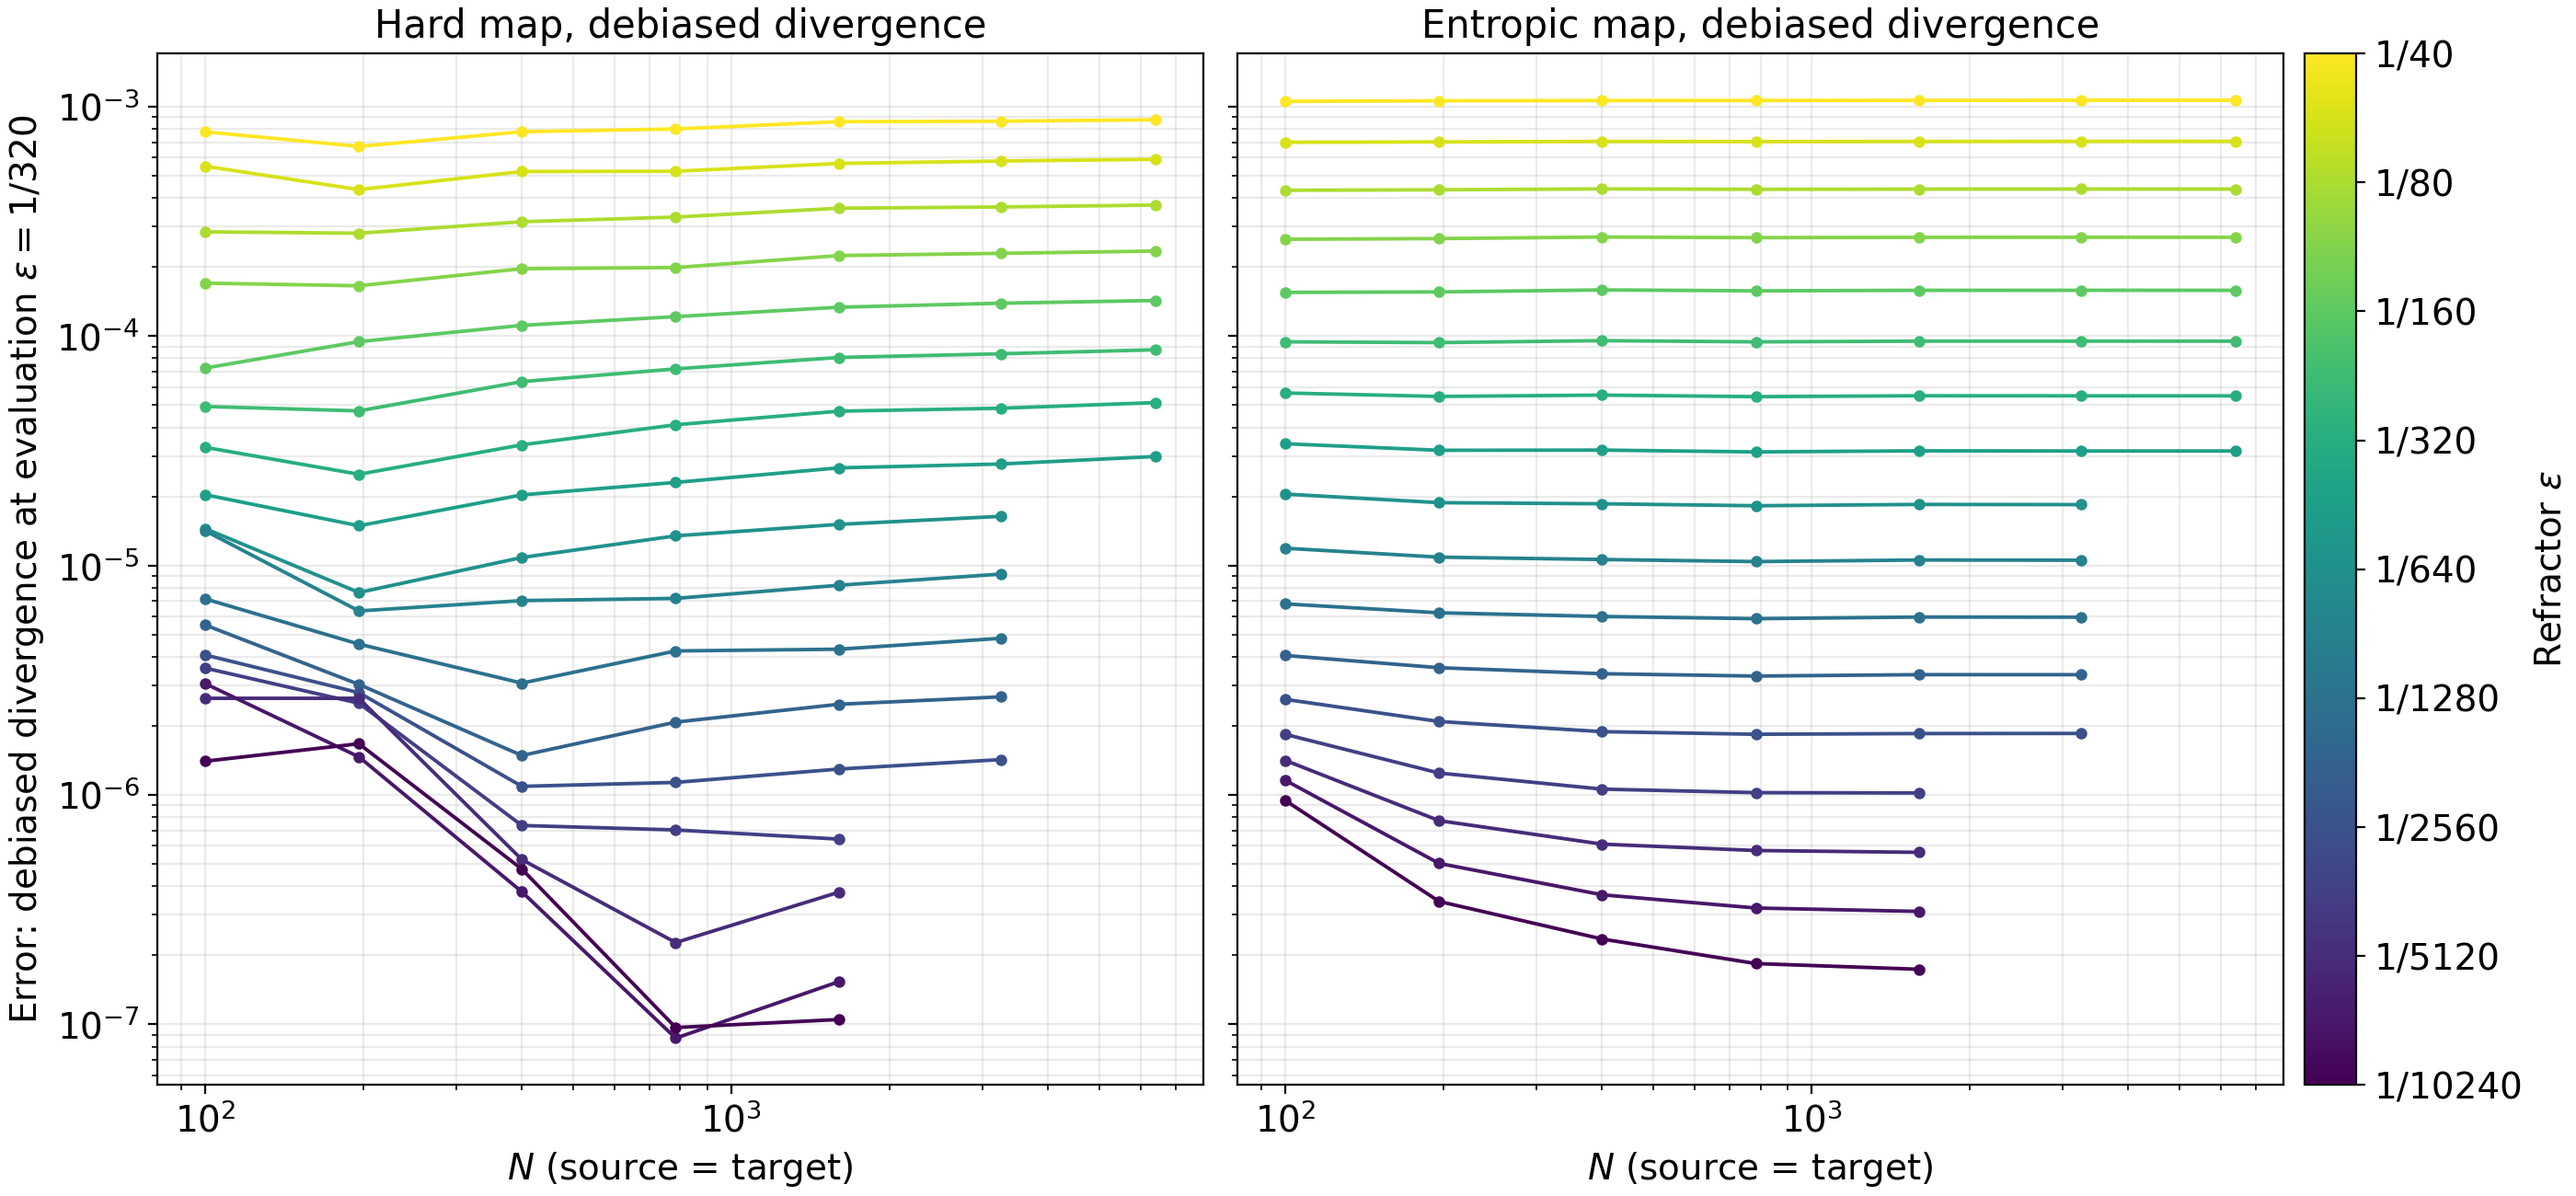
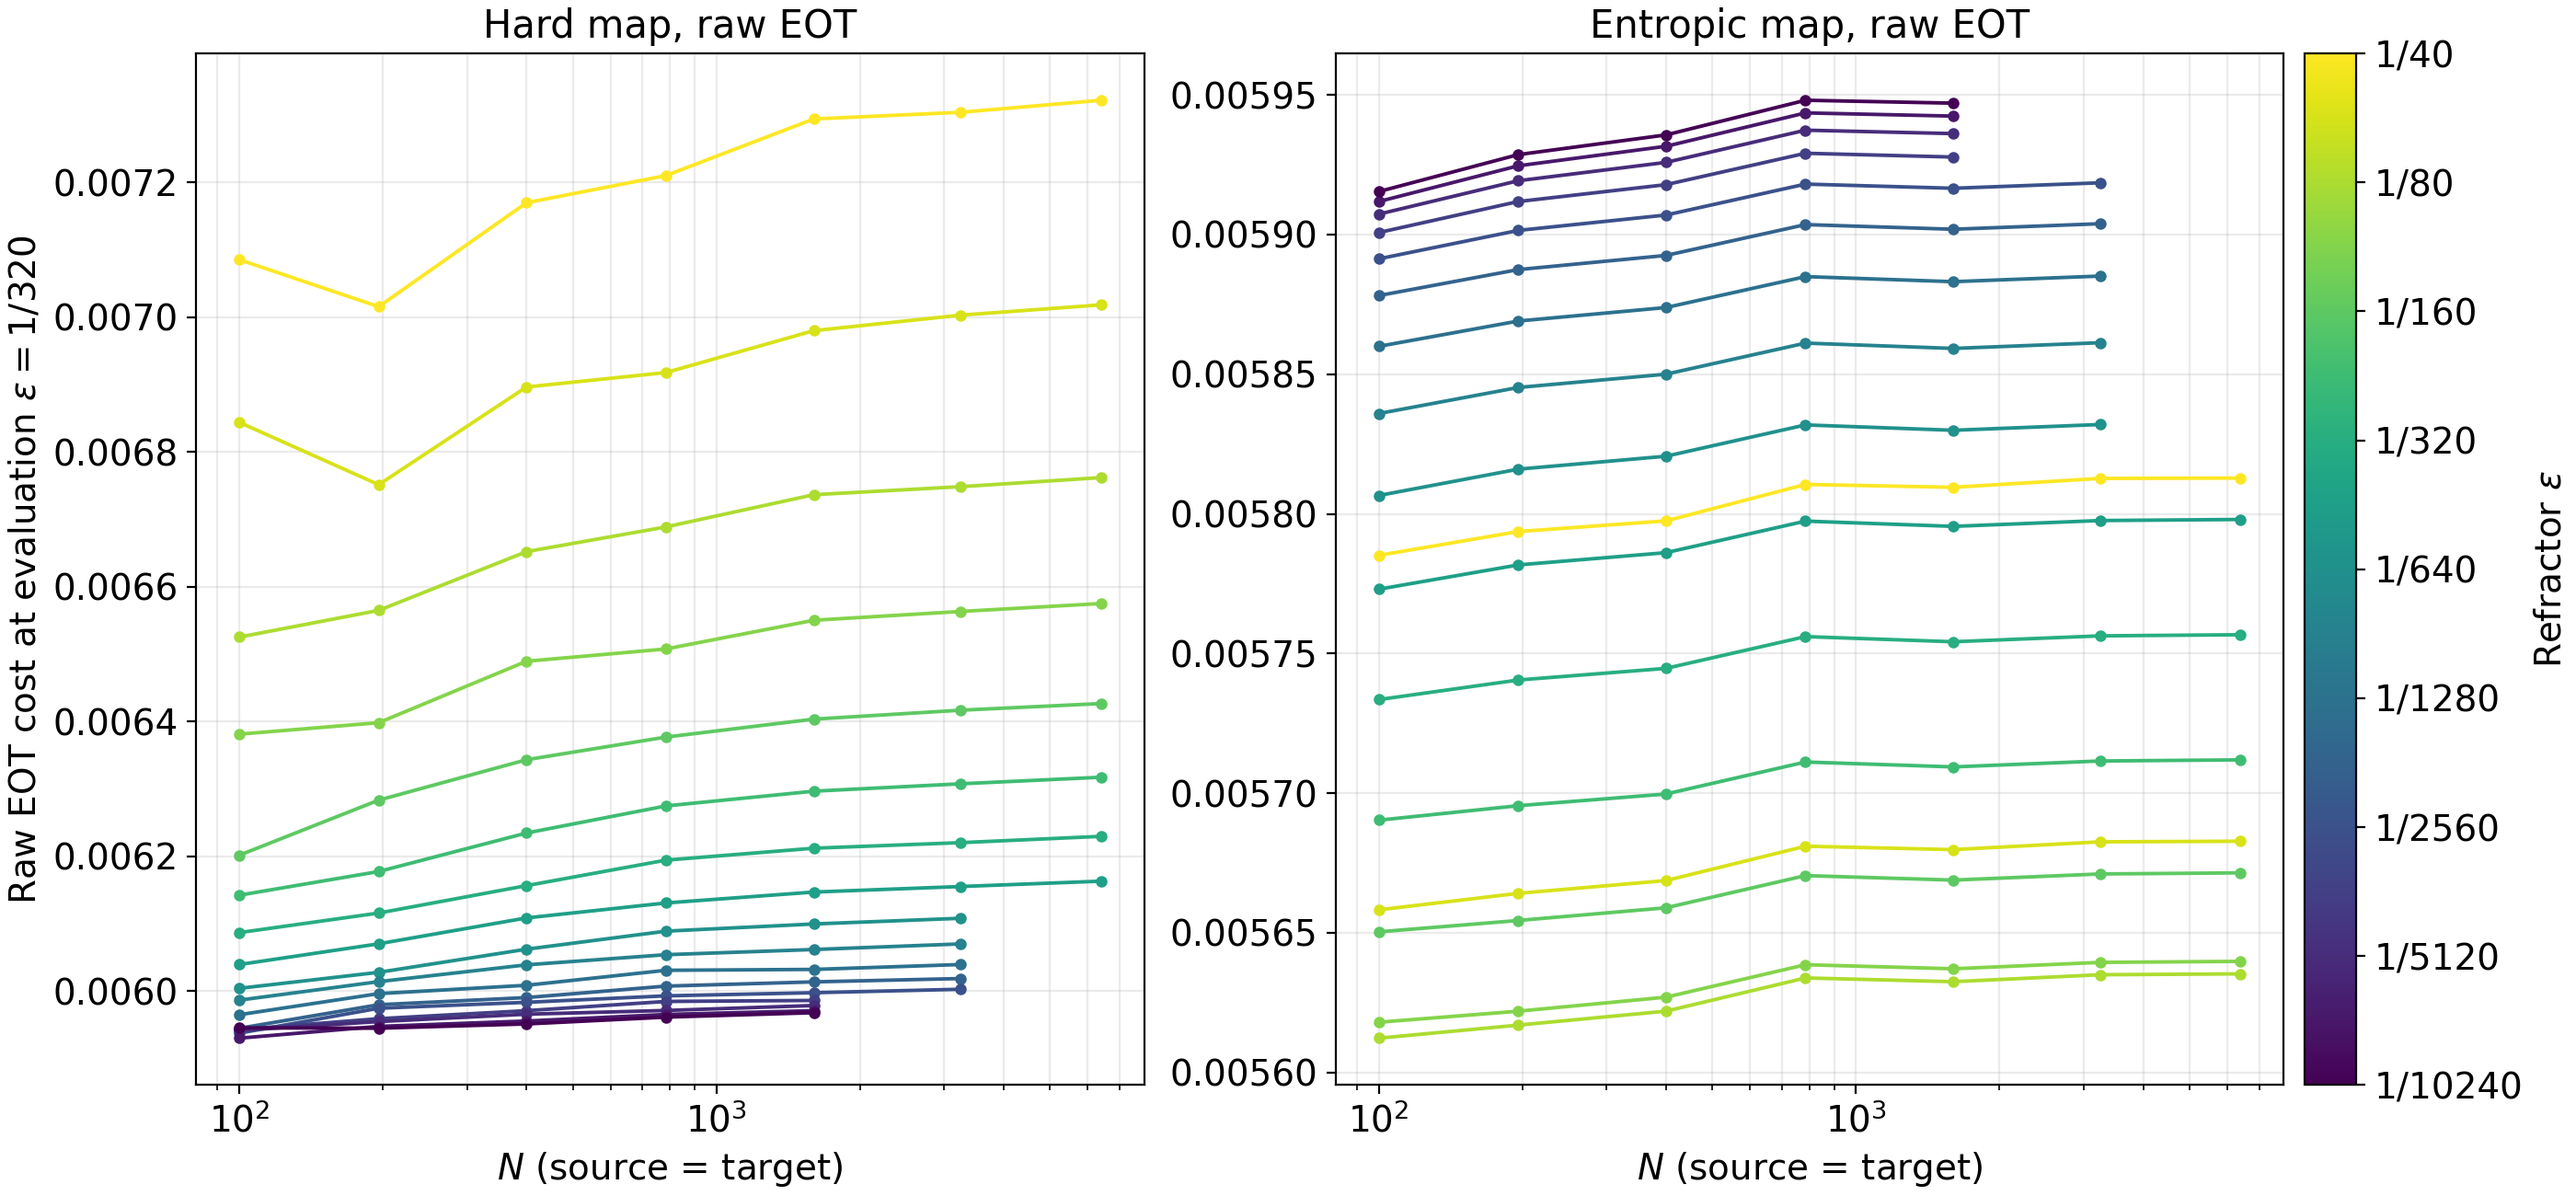
Plot raw EOT cost instead of debiased divergence in equal-count figures

diff --git a/scripts/plot_equal_count_grid.py b/scripts/plot_equal_count_grid.py
@@ -19,9 +19,7 @@ import numpy as np
 ROOT = Path(__file__).resolve().parents[1]
 IMAGES = ROOT / "geometric_optics_progress" / "images"
 SERIES = [("hard_cost", "Hard map, raw EOT", "o-", "C0"),
-          ("entropic_cost", "Entropic map, raw EOT", "s-", "C1"),
-          ("hard_debiased_divergence", "Hard map, debiased", "o--", "C0"),
-          ("entropic_debiased_divergence", "Entropic map, debiased", "s--", "C1")]
+          ("entropic_cost", "Entropic map, raw EOT", "s-", "C1")]
 
 
 def load(run):
@@ -35,7 +33,7 @@ def load(run):
 def line_panel(ax, rows, x, title, xlabel):
     for field, label, style, color in SERIES:
         ax.plot(x, [r[field] for r in rows], style, color=color, label=label, markersize=4, linewidth=1.6)
-    ax.set(xscale="log", yscale="log", title=title, xlabel=xlabel, ylabel=r"Cost at evaluation $\varepsilon=1/320$")
+    ax.set(xscale="log", title=title, xlabel=xlabel, ylabel=r"Cost at evaluation $\varepsilon=1/320$")
     ax.grid(alpha=.25, which="both")
 
 
@@ -55,21 +53,21 @@ def main(run):
         fig.savefig(IMAGES / "equal_count_joint_and_n.png", dpi=220)
         plt.close(fig)
 
-        # One line per refractor epsilon: error (debiased divergence) against N.
-        fields = [("hard_debiased_divergence", "Hard map"), ("entropic_debiased_divergence", "Entropic map")]
+        # One line per refractor epsilon: error (raw EOT cost) against N.
+        fields = [("hard_cost", "Hard map"), ("entropic_cost", "Entropic map")]
         cmap = plt.get_cmap("viridis")
         norm = LogNorm(1 / (8 * max(ms_e)), 1 / (8 * min(ms_e)))
-        fig, axes = plt.subplots(1, 2, figsize=(14, 6.5), sharey=True, layout="constrained")
+        fig, axes = plt.subplots(1, 2, figsize=(14, 6.5), layout="constrained")
         for ax, (field, title) in zip(axes, fields):
             for me in ms_e:
                 row = sorted((c for (n, m), c in cells.items() if m == me), key=lambda c: c["nk"])
                 if row:
                     ax.plot([c["nk"] for c in row], [c[field] for c in row], "o-", color=cmap(norm(1 / (8 * me))),
                             markersize=3.5, linewidth=1.4, label=f"1/{8 * me}")
-            ax.set(xscale="log", yscale="log", title=f"{title}, debiased divergence",
+            ax.set(xscale="log", title=f"{title}, raw EOT",
                    xlabel=r"$N$ (source = target)")
             ax.grid(alpha=.25, which="both")
-        axes[0].set_ylabel(r"Error: debiased divergence at evaluation $\varepsilon=1/320$")
+        axes[0].set_ylabel(r"Raw EOT cost at evaluation $\varepsilon=1/320$")
         bar = fig.colorbar(plt.cm.ScalarMappable(norm=norm, cmap=cmap), ax=axes, pad=0.01)
         bar.set_label(r"Refractor $\varepsilon$")
         ticks = [1 / (8 * m) for m in ms_e[::2]]

diff --git a/geometric_optics_progress/equal_count_grid_results.tex b/geometric_optics_progress/equal_count_grid_results.tex
@@ -70,16 +70,16 @@ Figure~\ref{fig:equal-count-eps-lines} the whole grid, one line per $\varepsilon
  \includegraphics[width=.8\textwidth]{equal_count_joint_and_n.png}
  \caption{\large $\kappa=0.8$, source count = target count, relaxed
  stopping. Top: joint movement $\varepsilon=1/(8\sqrt N)$. Bottom: $N$
- movement at fixed $\varepsilon=1/320$. Raw EOT and debiased divergence for
- the hard and entropic maps, evaluated at $\varepsilon=1/320$.}
+ movement at fixed $\varepsilon=1/320$. Raw EOT cost for the hard and
+ entropic maps, evaluated at $\varepsilon=1/320$.}
  \label{fig:equal-count-lines}
 \end{figure}
 
 \begin{figure}[p]
  \centering
  \includegraphics[width=\textwidth]{equal_count_eps_lines.png}
- \caption{\large $\kappa=0.8$, source count = target count: error
- (debiased divergence at evaluation $\varepsilon=1/320$) against $N$, one
+ \caption{\large $\kappa=0.8$, source count = target count: raw EOT
+ cost (evaluated at $\varepsilon=1/320$) against $N$, one
  line per refractor $\varepsilon$. Left: hard map. Right: entropic map.
  Lines stop where larger $N$ was predicted to take over three hours.}
  \label{fig:equal-count-eps-lines}
